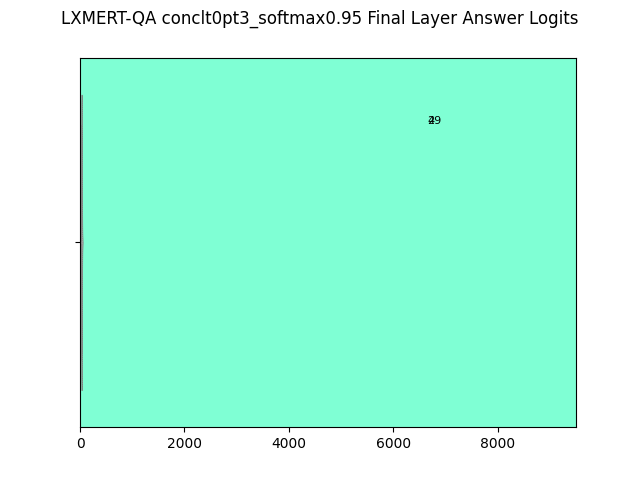
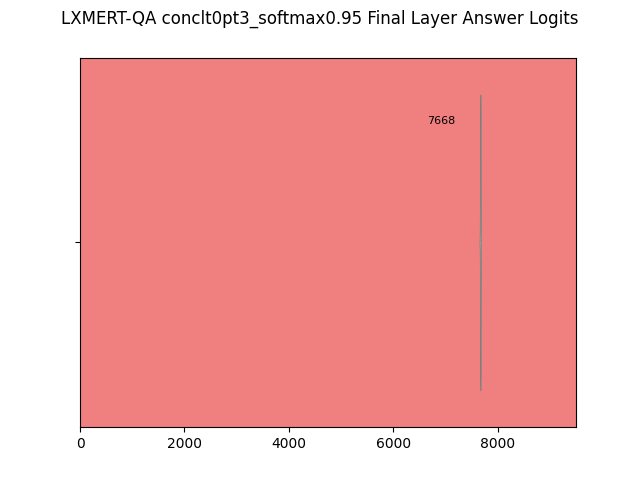
sorted lxmert-qa plots

diff --git a/plots_n_stats/BERT/7_qa_logits/README.md b/plots_n_stats/BERT/7_qa_logits/README.md
@@ -2,6 +2,18 @@
 The huggingface transformer pytorch library is a blessing. We consider a study similar to the "softmax response" experiments previously done. We calculate the number of classes required to hit each softmax threshold of the output layer of the QA models.
 
 # LXMERT-QA:
+## Softmax Threshold > 0.5
+Conc Questions|Abs Questions
+-|-
+![pending](lxmertconcgt0pt95_softmax0.5.png)|![pending](lxmertconclt0pt3_softmax0.5.png)
+
+
+## Softmax Threshold > 0.8
+Conc Questions|Abs Questions
+-|-
+![pending](lxmertconcgt0pt95_softmax0.8.png)|![pending](lxmertconclt0pt3_softmax0.8.png)
+
+
 ## Softmax Threshold > 0.9
 Conc Questions|Abs Questions
 -|-
@@ -21,8 +33,3 @@ Conc Questions|Abs Questions
 Conc Questions|Abs Questions
 -|-
 ![pending](lxmertconcgt0pt95_softmax0.99999.png)|![pending](lxmertconclt0pt3_softmax0.99999.png)
-
-## Softmax Threshold > 0.9999999999
-Conc Questions|Abs Questions
--|-
-![pending](lxmertconcgt0pt95_softmax0.9999999999.png)|![pending](lxmertconclt0pt3_softmax0.9999999999.png)
